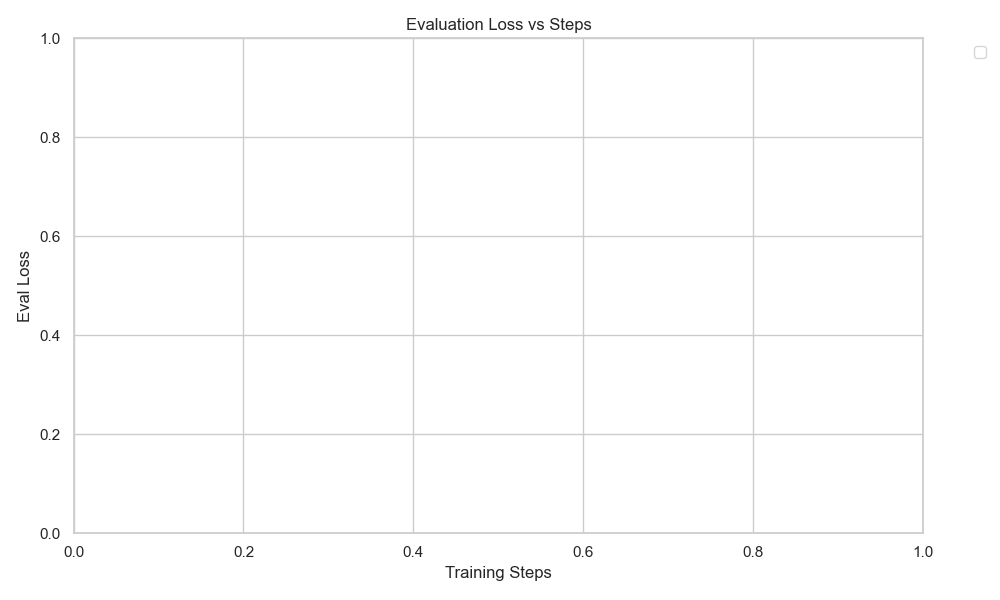
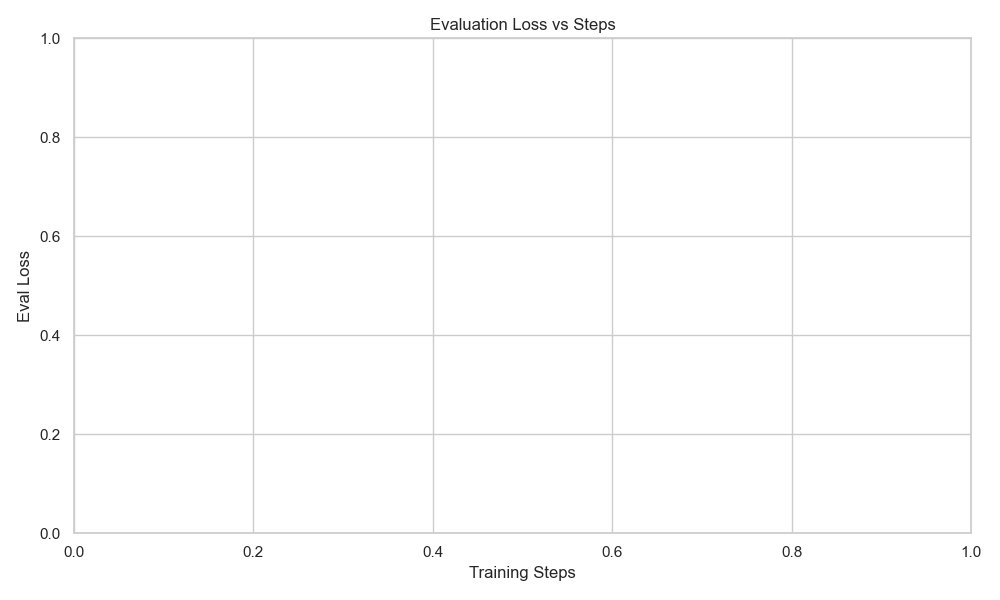
update(report): Explicit Grouping: I updated scripts/train_sft.py and scripts/train_dpo.py to check for the W&B agent environment. They now explicitly inject WANDB_RUN_GROUP as either sft_sweeps / dpo_sweeps or sft_baseline / dpo_baseline. Your Hugging Face Trainer will automatically pick this up an

diff --git a/docs/ablation_report.md b/docs/ablation_report.md
@@ -4,9 +4,9 @@ This report was automatically generated from Weights & Biases metrics.
 
 ## Top Performing Configurations
 
-| Run ID   | Name         | Sweep ID   |   Learning Rate |   Batch Size |   Eval Loss | URL                                                    |
-|:---------|:-------------|:-----------|----------------:|-------------:|------------:|:-------------------------------------------------------|
-| 5cxs95q7 | sft_training | j6b6q65r   |     1.71876e-05 |            1 |    0.864485 | https://wandb.ai/rl4aa/ask-before-answer/runs/5cxs95q7 |
+| Run ID   | Name         | Group   | Hypothesis   | Sweep ID   |   Learning Rate |   Batch Size |   Eval Loss | URL                                                    |
+|:---------|:-------------|:--------|:-------------|:-----------|----------------:|-------------:|------------:|:-------------------------------------------------------|
+| 5cxs95q7 | sft_training | N/A     | N/A          | j6b6q65r   |     1.71876e-05 |            1 |    0.864485 | https://wandb.ai/rl4aa/ask-before-answer/runs/5cxs95q7 |
 
 ## Learning Curves
 